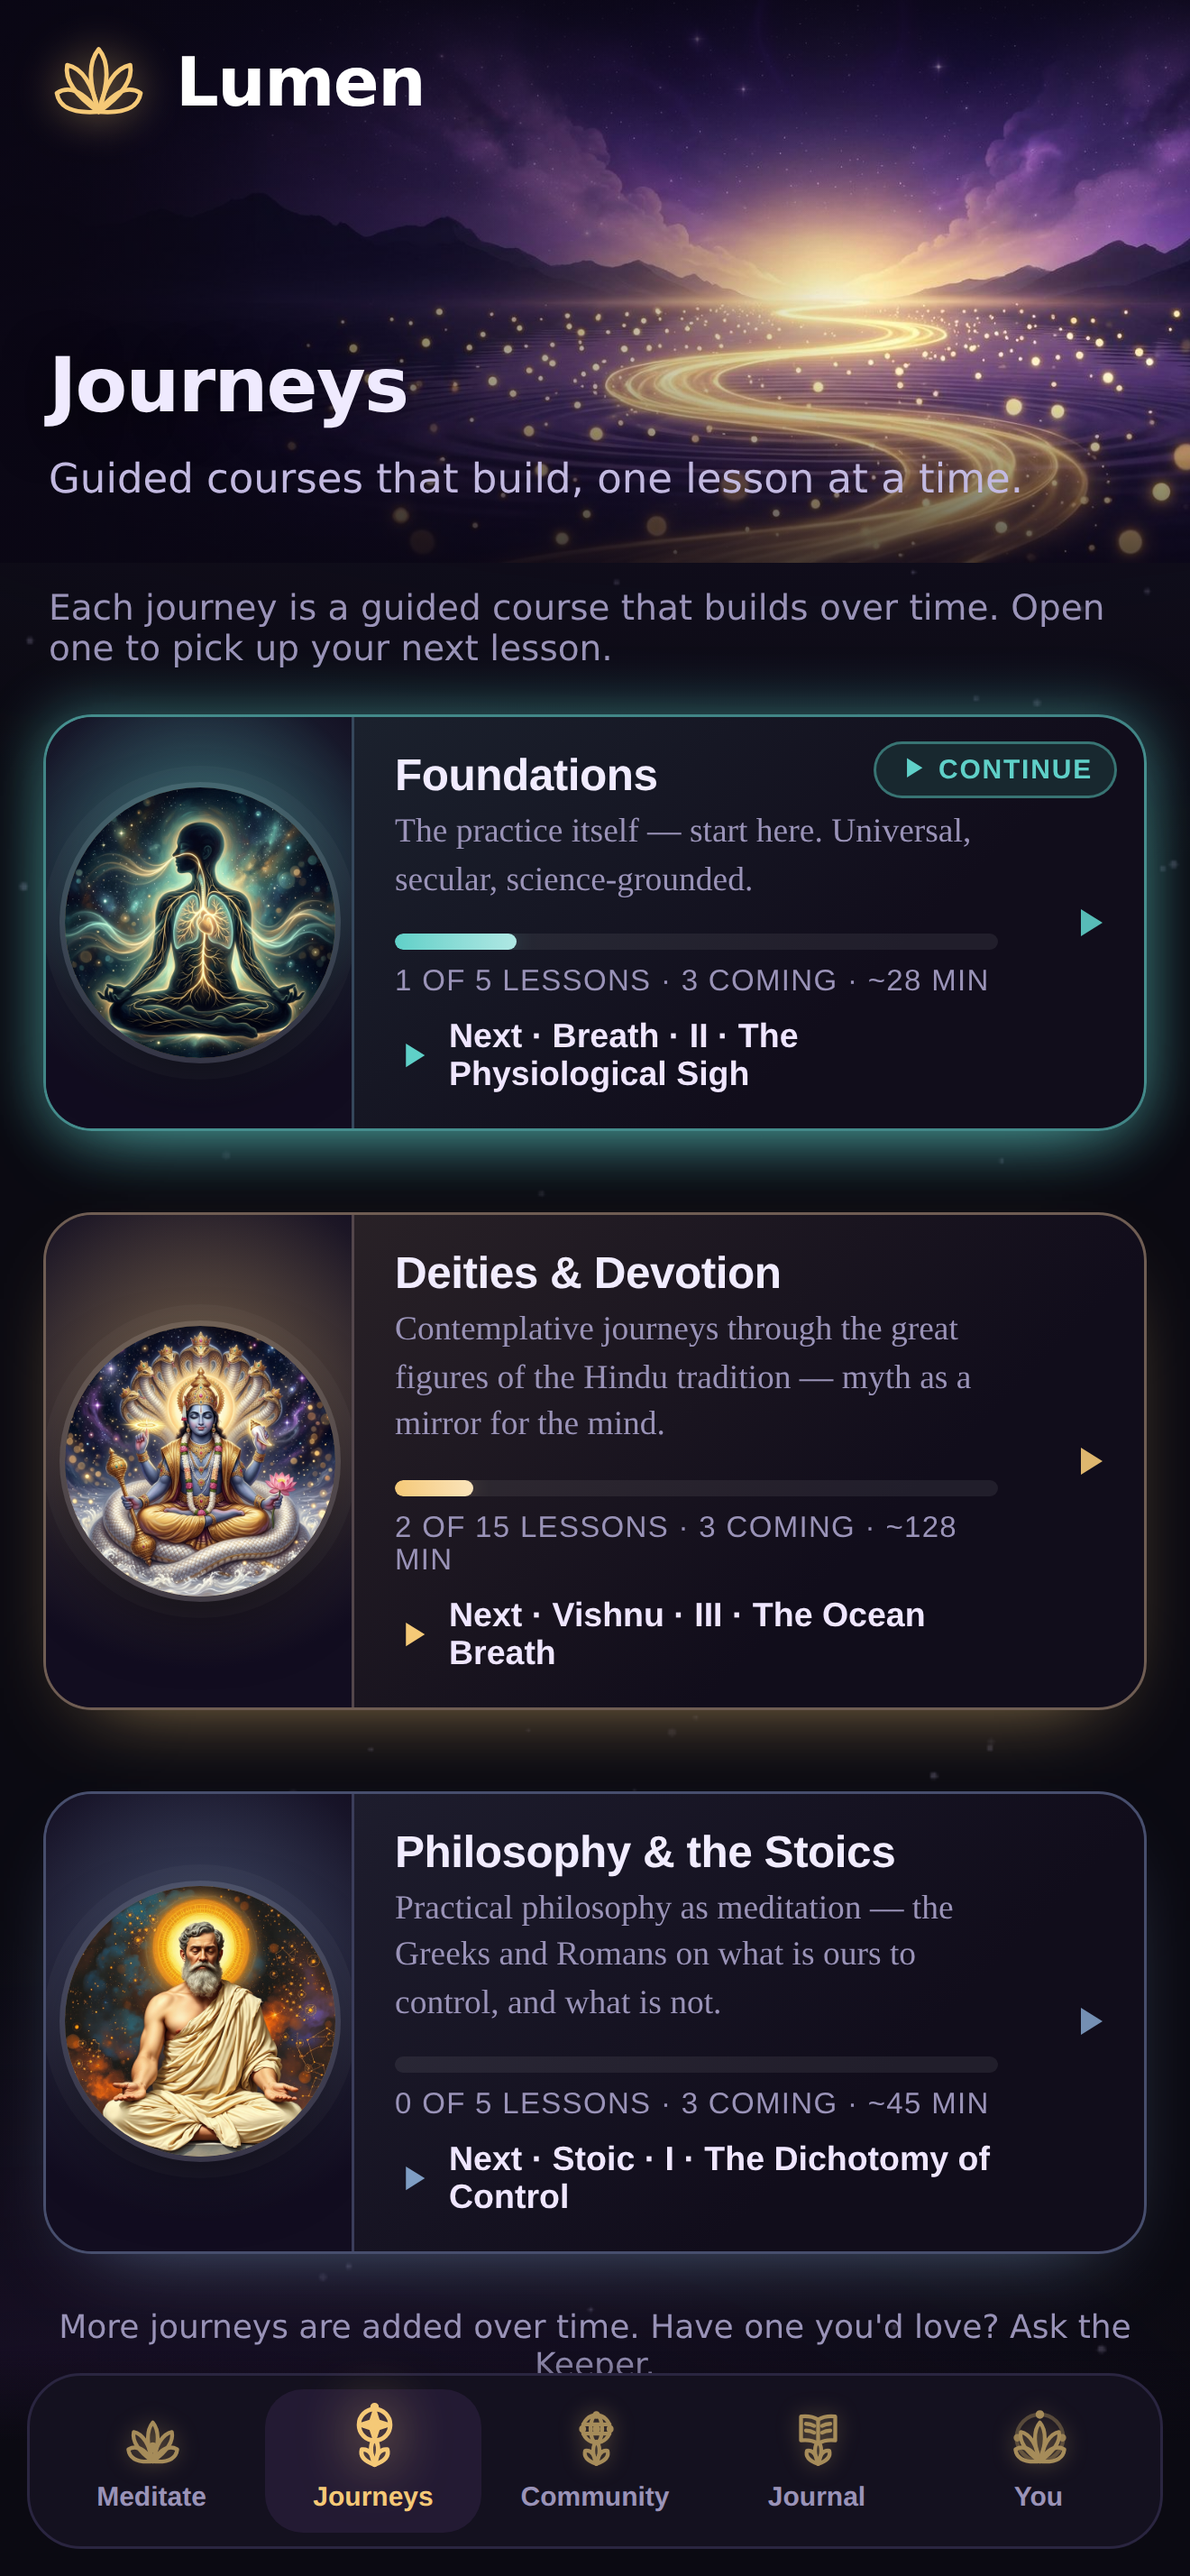
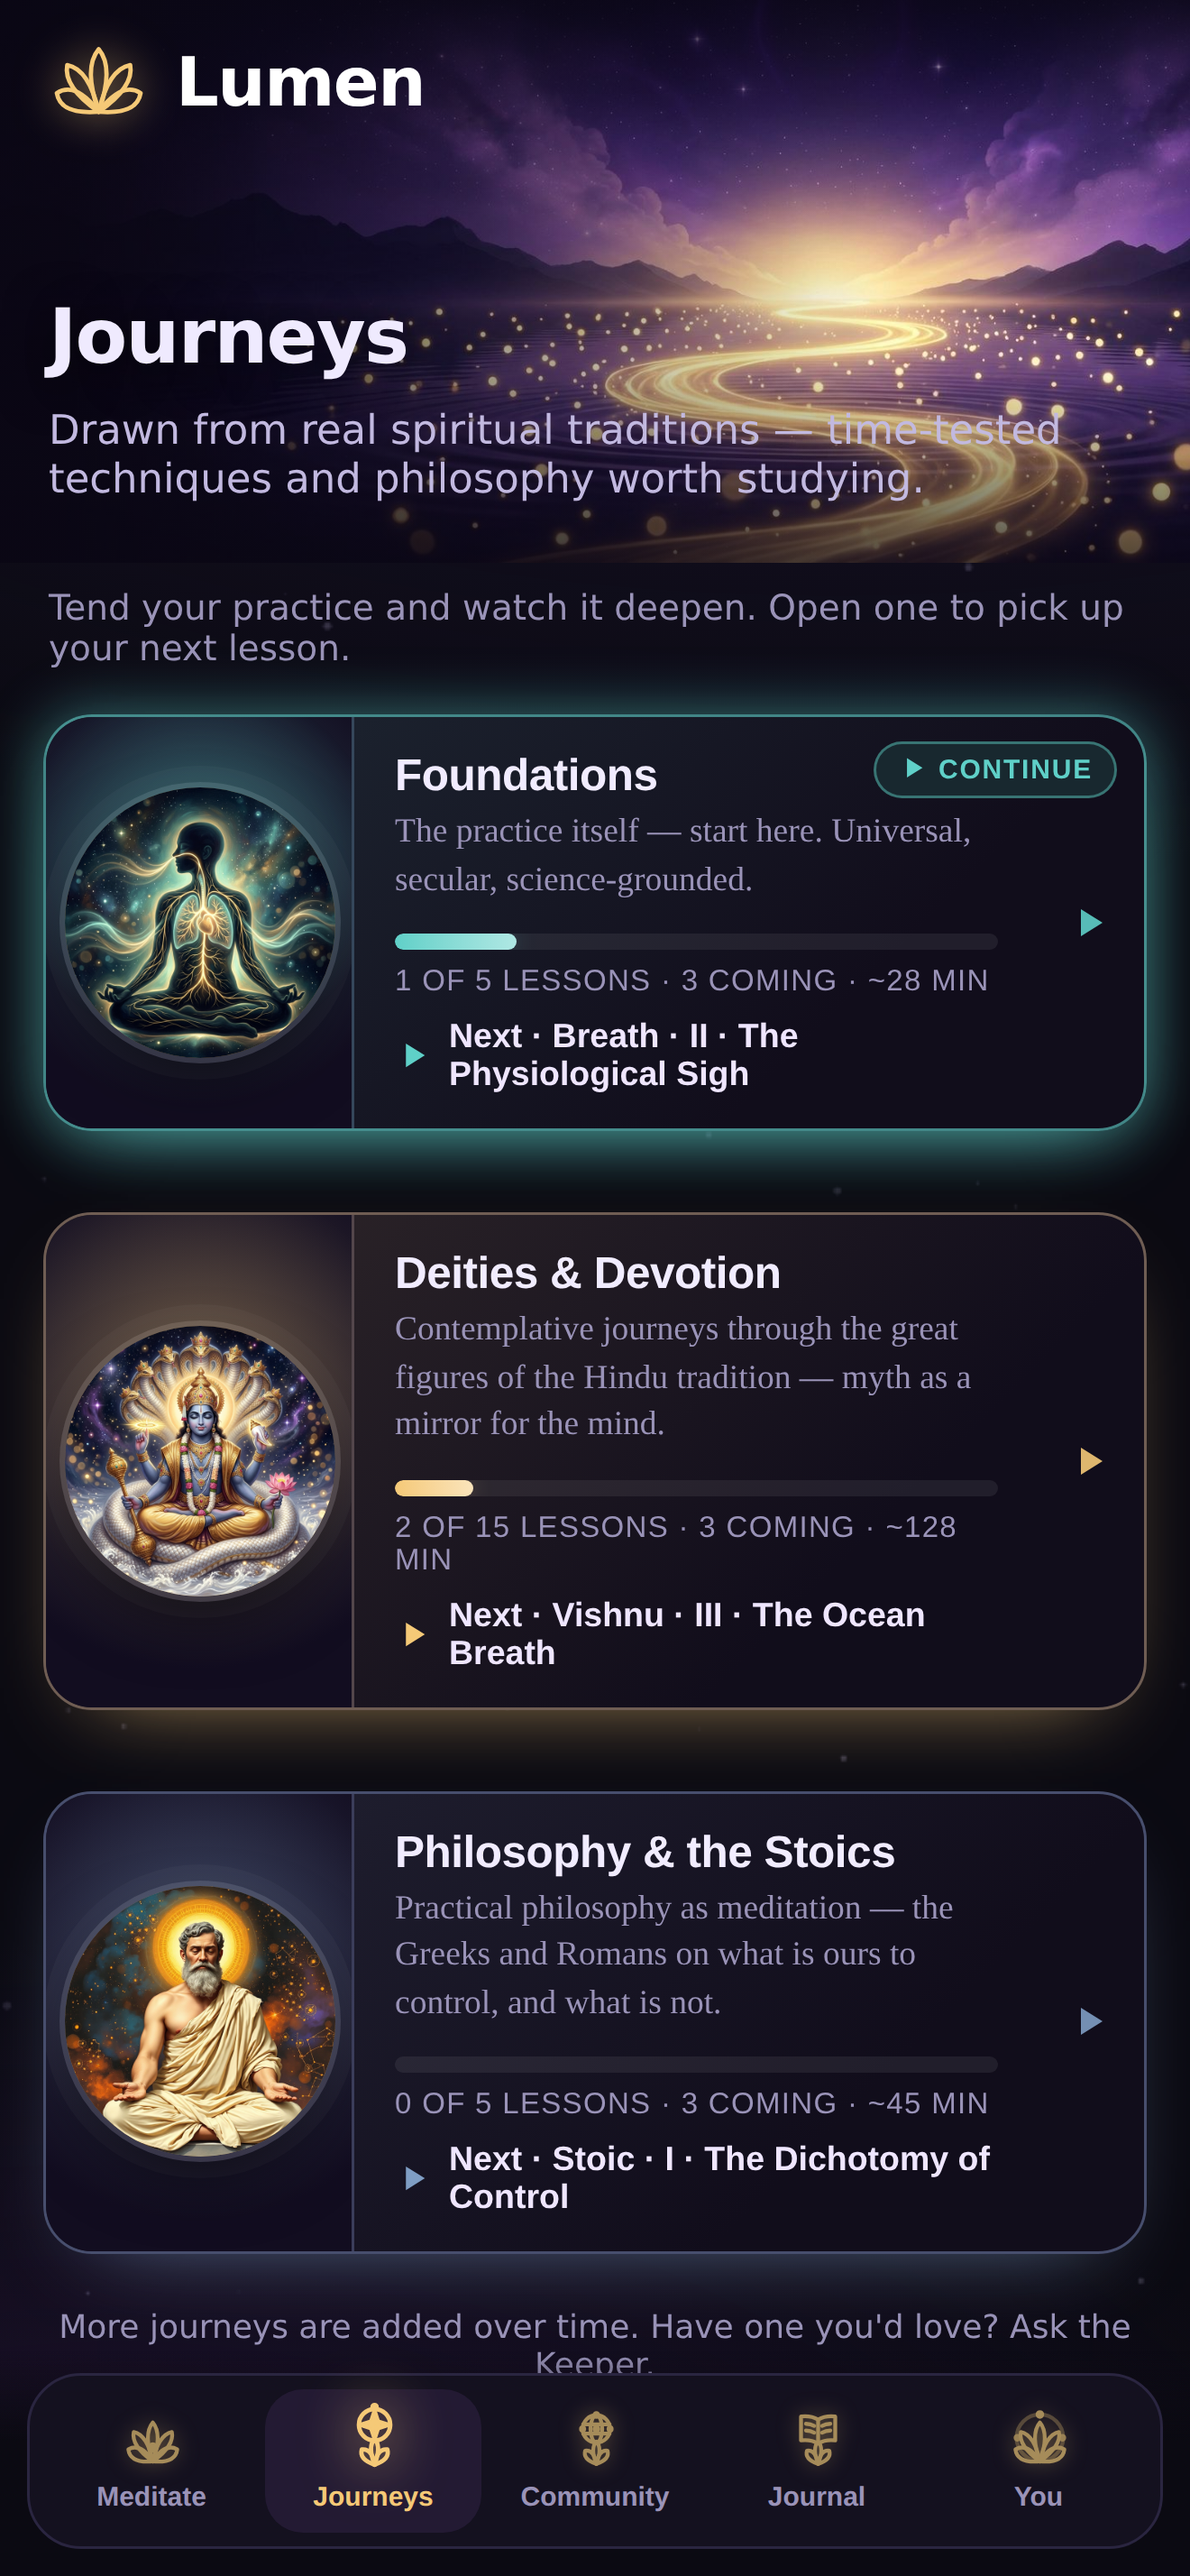
lumen: Journeys copy — 'Drawn from real spiritual traditions — time-tested techniques and philosophy worth studying. Tend your practice and watch it deepen.' (app + App Store frame-2, v108)

Changed region(s): [[0.0311, 0.1246, 0.9318, 0.2805]]

diff --git a/lumen/appstore/screenshots-v3/template.html b/lumen/appstore/screenshots-v3/template.html
@@ -52,7 +52,7 @@
 <script>
 const FRAMES = {
   1:{img:'ui/home.png',eyebrow:'Lumen',head:'Meditation<br>you can <em>see</em>',sub:'Every breath adds light to a living world.',hero:true},
-  2:{img:'ui/journeyscat.png',eyebrow:'Depth, not soundbites',head:'Journeys from<br><em>real</em> traditions',sub:'Guided courses that build, one lesson at a time.'},
+  2:{img:'ui/journeyscat.png',eyebrow:'Depth, not soundbites',head:'Journeys from<br><em>real</em> traditions',sub:'Time-tested techniques and philosophy worth studying. Tend your practice and watch it deepen.'},
   3:{img:'ui/journalwrite.png',eyebrow:'Journal, reimagined',head:'A journal<br>you will <em>keep</em>',sub:'A calm, timed page — write, speak, or photograph your handwritten entry.'},
   4:{img:'ui/community.png',eyebrow:'You are not alone',head:'Letters from<br><em>real</em> people',sub:'Read what other meditators are moving through — and write back.'},
   5:{img:'ui/mandala.png',eyebrow:'Your practice, kept',head:'Watch your<br>practice <em>bloom</em>',sub:'Each milestone adds a petal to your mandala.'},

diff --git a/lumen/server.py b/lumen/server.py
@@ -5583,8 +5583,8 @@ async function renderLessons(){
     </button>`;
   };
   $('#app').innerHTML=`
-  <section class="nh-hero jny-hero" id="jnyHero"><div class="nh-hero-scrim"></div><div class="nh-hero-inner"><header class="nh-hdr"><div class="nh-brand"><span class="nh-mark">${COMM_LOTUS}</span><span class="nh-name">Lumen</span></div></header><div class="nh-hero-txt"><h1 class="nh-greet">Journeys</h1><p class="nh-sub">Guided courses that build, one lesson at a time.</p></div></div></section>
-  <p class="muted" style="font-size:13px;margin:10px 2px 16px">Each journey is a guided course that builds over time. Open one to pick up your next lesson.</p>
+  <section class="nh-hero jny-hero" id="jnyHero"><div class="nh-hero-scrim"></div><div class="nh-hero-inner"><header class="nh-hdr"><div class="nh-brand"><span class="nh-mark">${COMM_LOTUS}</span><span class="nh-name">Lumen</span></div></header><div class="nh-hero-txt"><h1 class="nh-greet">Journeys</h1><p class="nh-sub">Drawn from real spiritual traditions — time-tested techniques and philosophy worth studying.</p></div></div></section>
+  <p class="muted" style="font-size:13px;margin:10px 2px 16px">Tend your practice and watch it deepen. Open one to pick up your next lesson.</p>
   <div class="jrny-grid">${tracks.map(card).join('')}</div>
   <p class="muted center" style="font-size:12px;margin:20px 0 4px">More journeys are added over time. Have one you'd love? Ask the Keeper.</p>`;
   document.querySelectorAll('.jrny-card').forEach(c=>c.onclick=()=>renderJourney(c.dataset.k));
@@ -10431,7 +10431,7 @@ h1{color:#f5c977;font-size:26px;margin:0 0 4px}h2{color:#a855f7;font-size:17px;m
 </div></body></html>"""
 
 SERVICE_WORKER = r"""
-const CACHE = 'lumen-v107';
+const CACHE = 'lumen-v108';
 const STATIC = ['icon-192.png', 'icon-512.png', 'manifest.webmanifest'];
 self.addEventListener('install', e => {
   self.skipWaiting();
